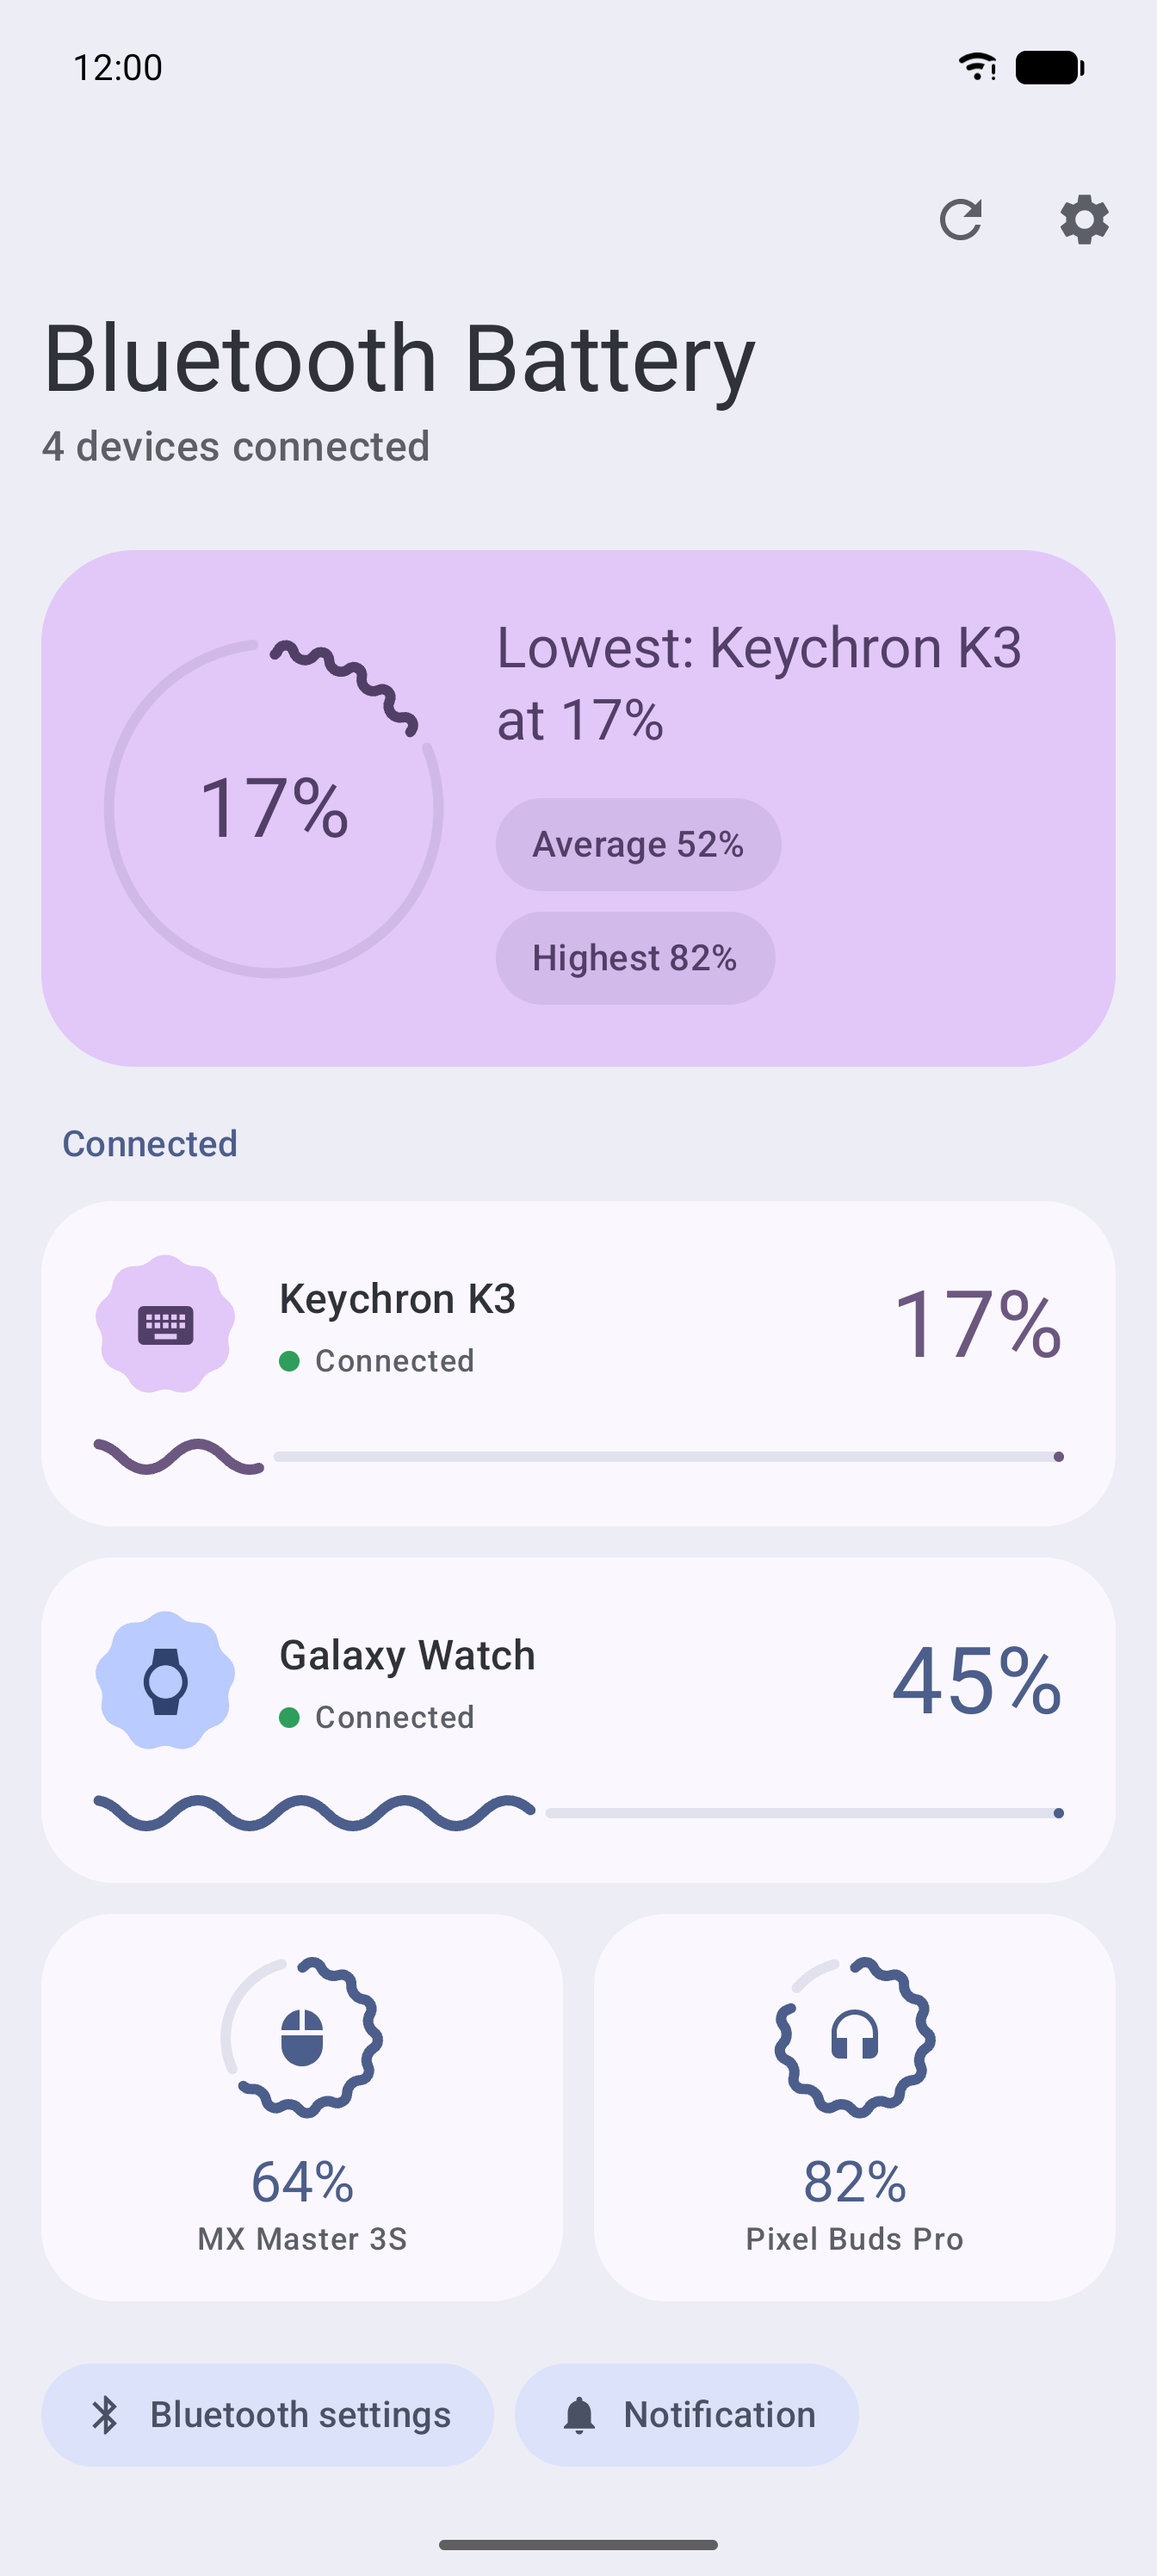
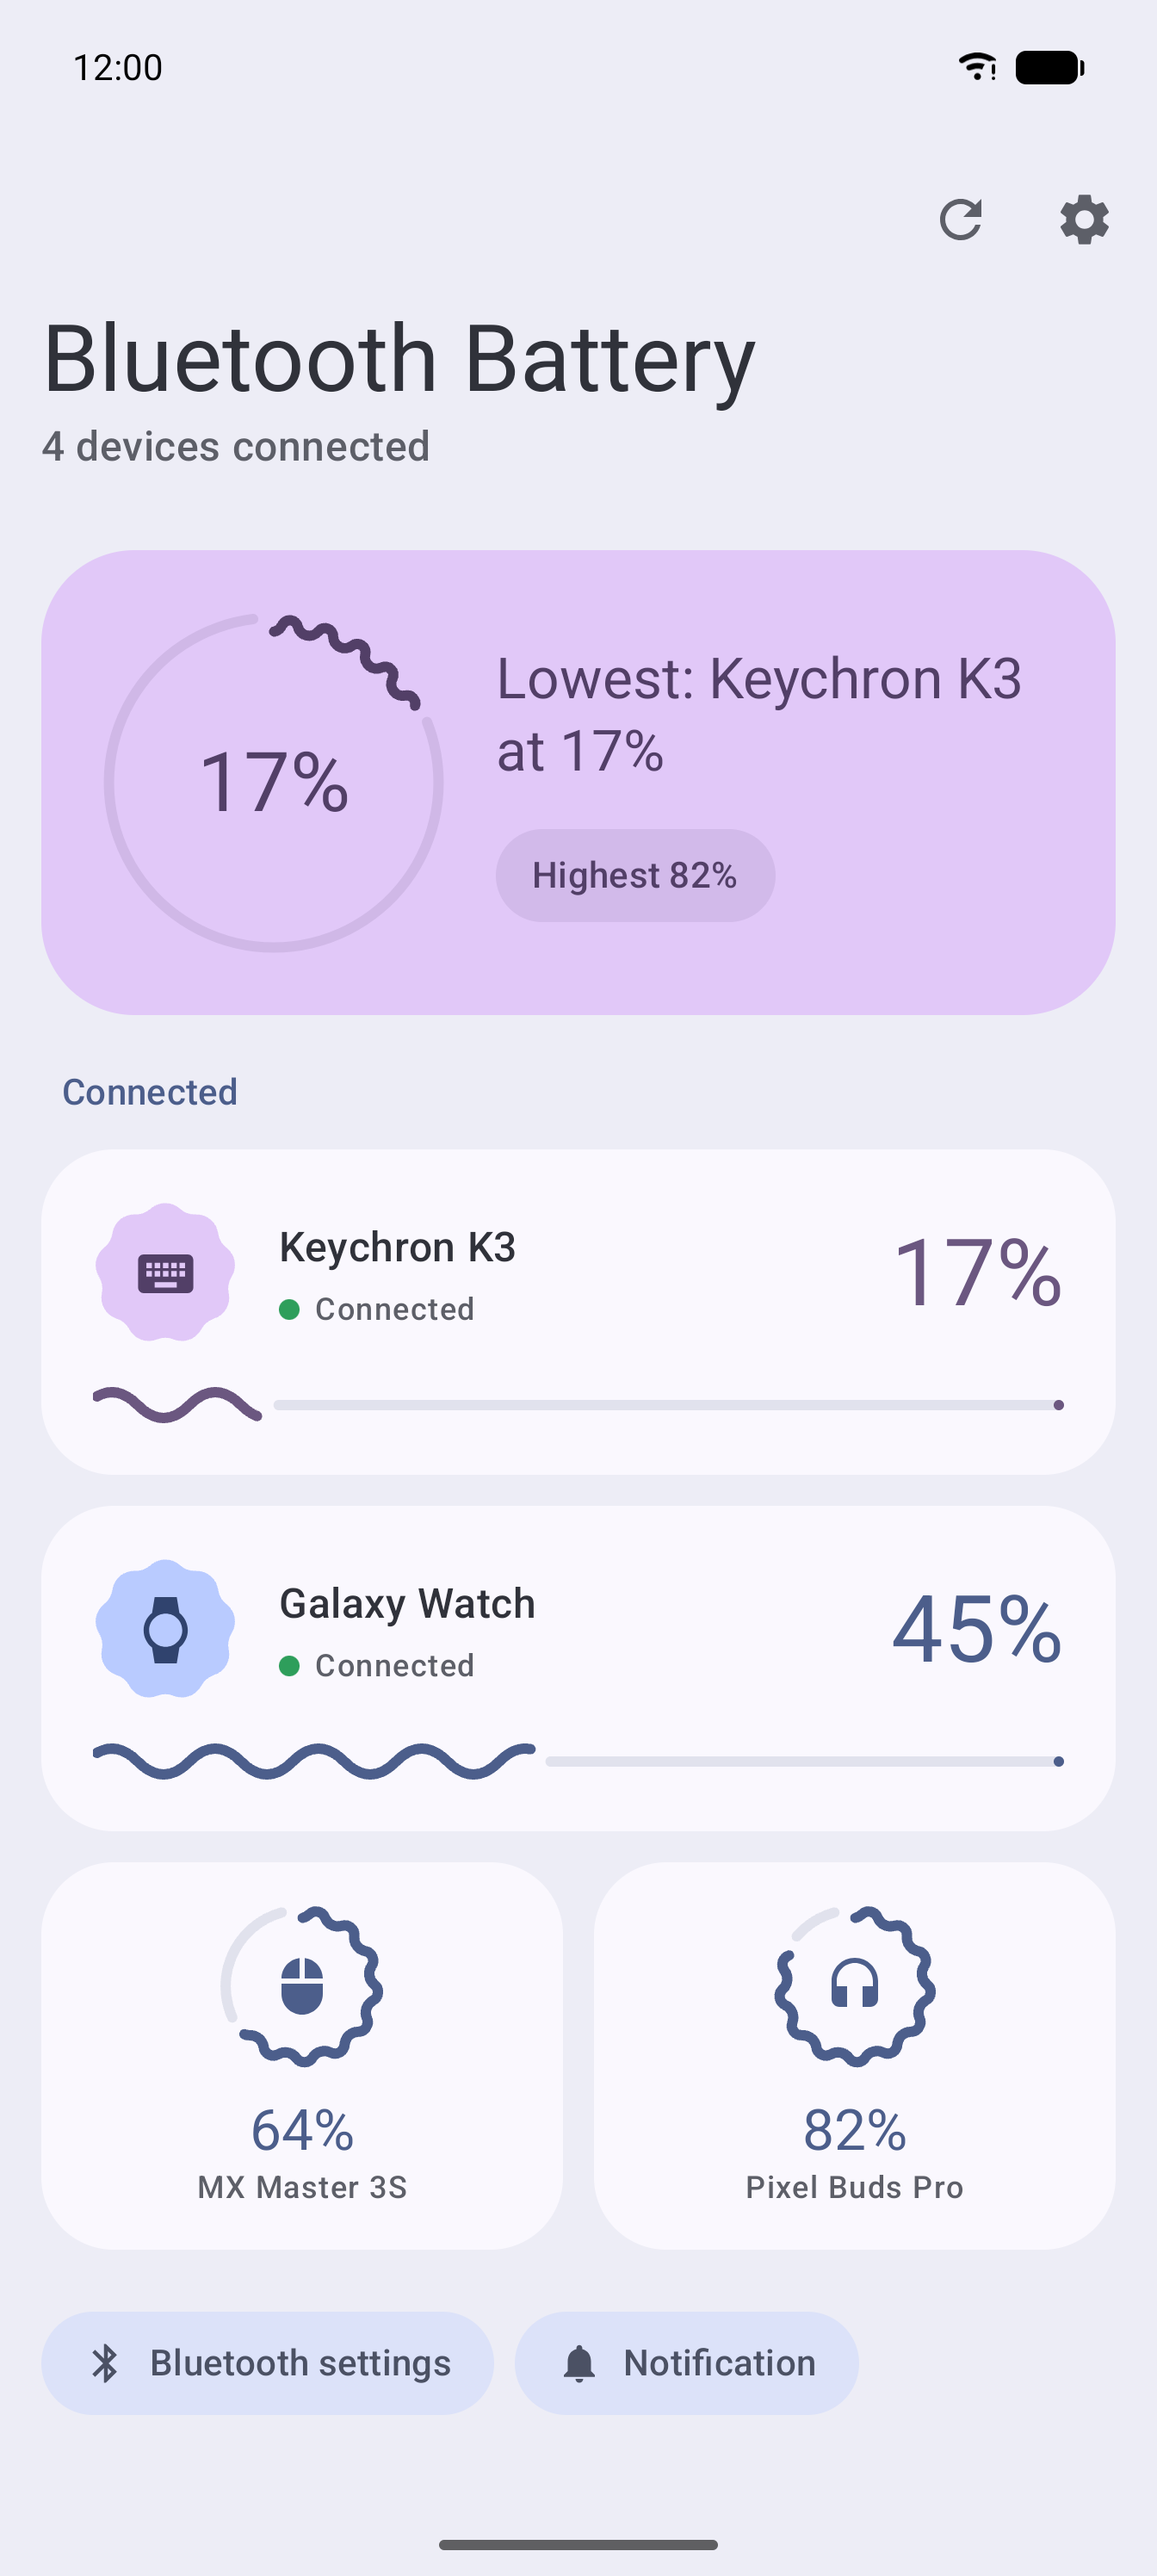
Update README screenshots and features (1.0.3)

diff --git a/README.md b/README.md
@@ -10,9 +10,10 @@
 Headphones, mouse, keyboard, controller, watch: every one of them seems to want its own companion app just so you can see how much battery is left. Or you dig through Bluetooth settings every time. UniBattery shows them all in one place, so a quick look at your home screen is enough.
 
 <p>
-  <img src="docs/screenshots/dashboard.png" width="250" alt="Dashboard">
-  <img src="docs/screenshots/widgets.png" width="250" alt="Home screen widgets">
-  <img src="docs/screenshots/icon-picker.png" width="250" alt="Icon picker">
+  <img src="docs/screenshots/dashboard.png" width="200" alt="Dashboard">
+  <img src="docs/screenshots/last-known.png" width="200" alt="Last known battery when nothing is connected">
+  <img src="docs/screenshots/widgets.png" width="200" alt="Home screen widgets">
+  <img src="docs/screenshots/icon-picker.png" width="200" alt="Icon picker">
 </p>
 
 > [!NOTE]
@@ -22,6 +23,7 @@ Headphones, mouse, keyboard, controller, watch: every one of them seems to want 
 
 - 🏠 **Home-screen widget**: all connected devices and their battery levels at a glance
 - 📱 **Dashboard app**: Material 3 Expressive UI with an icon per device type
+- 🕘 **Last known battery**: when a device isn't connected, see the level it had last time, so you know whether to charge it before you connect
 - 🔔 **Optional notification**: a silent, persistent notification that keeps the levels current
 - 🔒 **Minimal permissions**: no location, no scanning, only access to devices you have already paired
 
